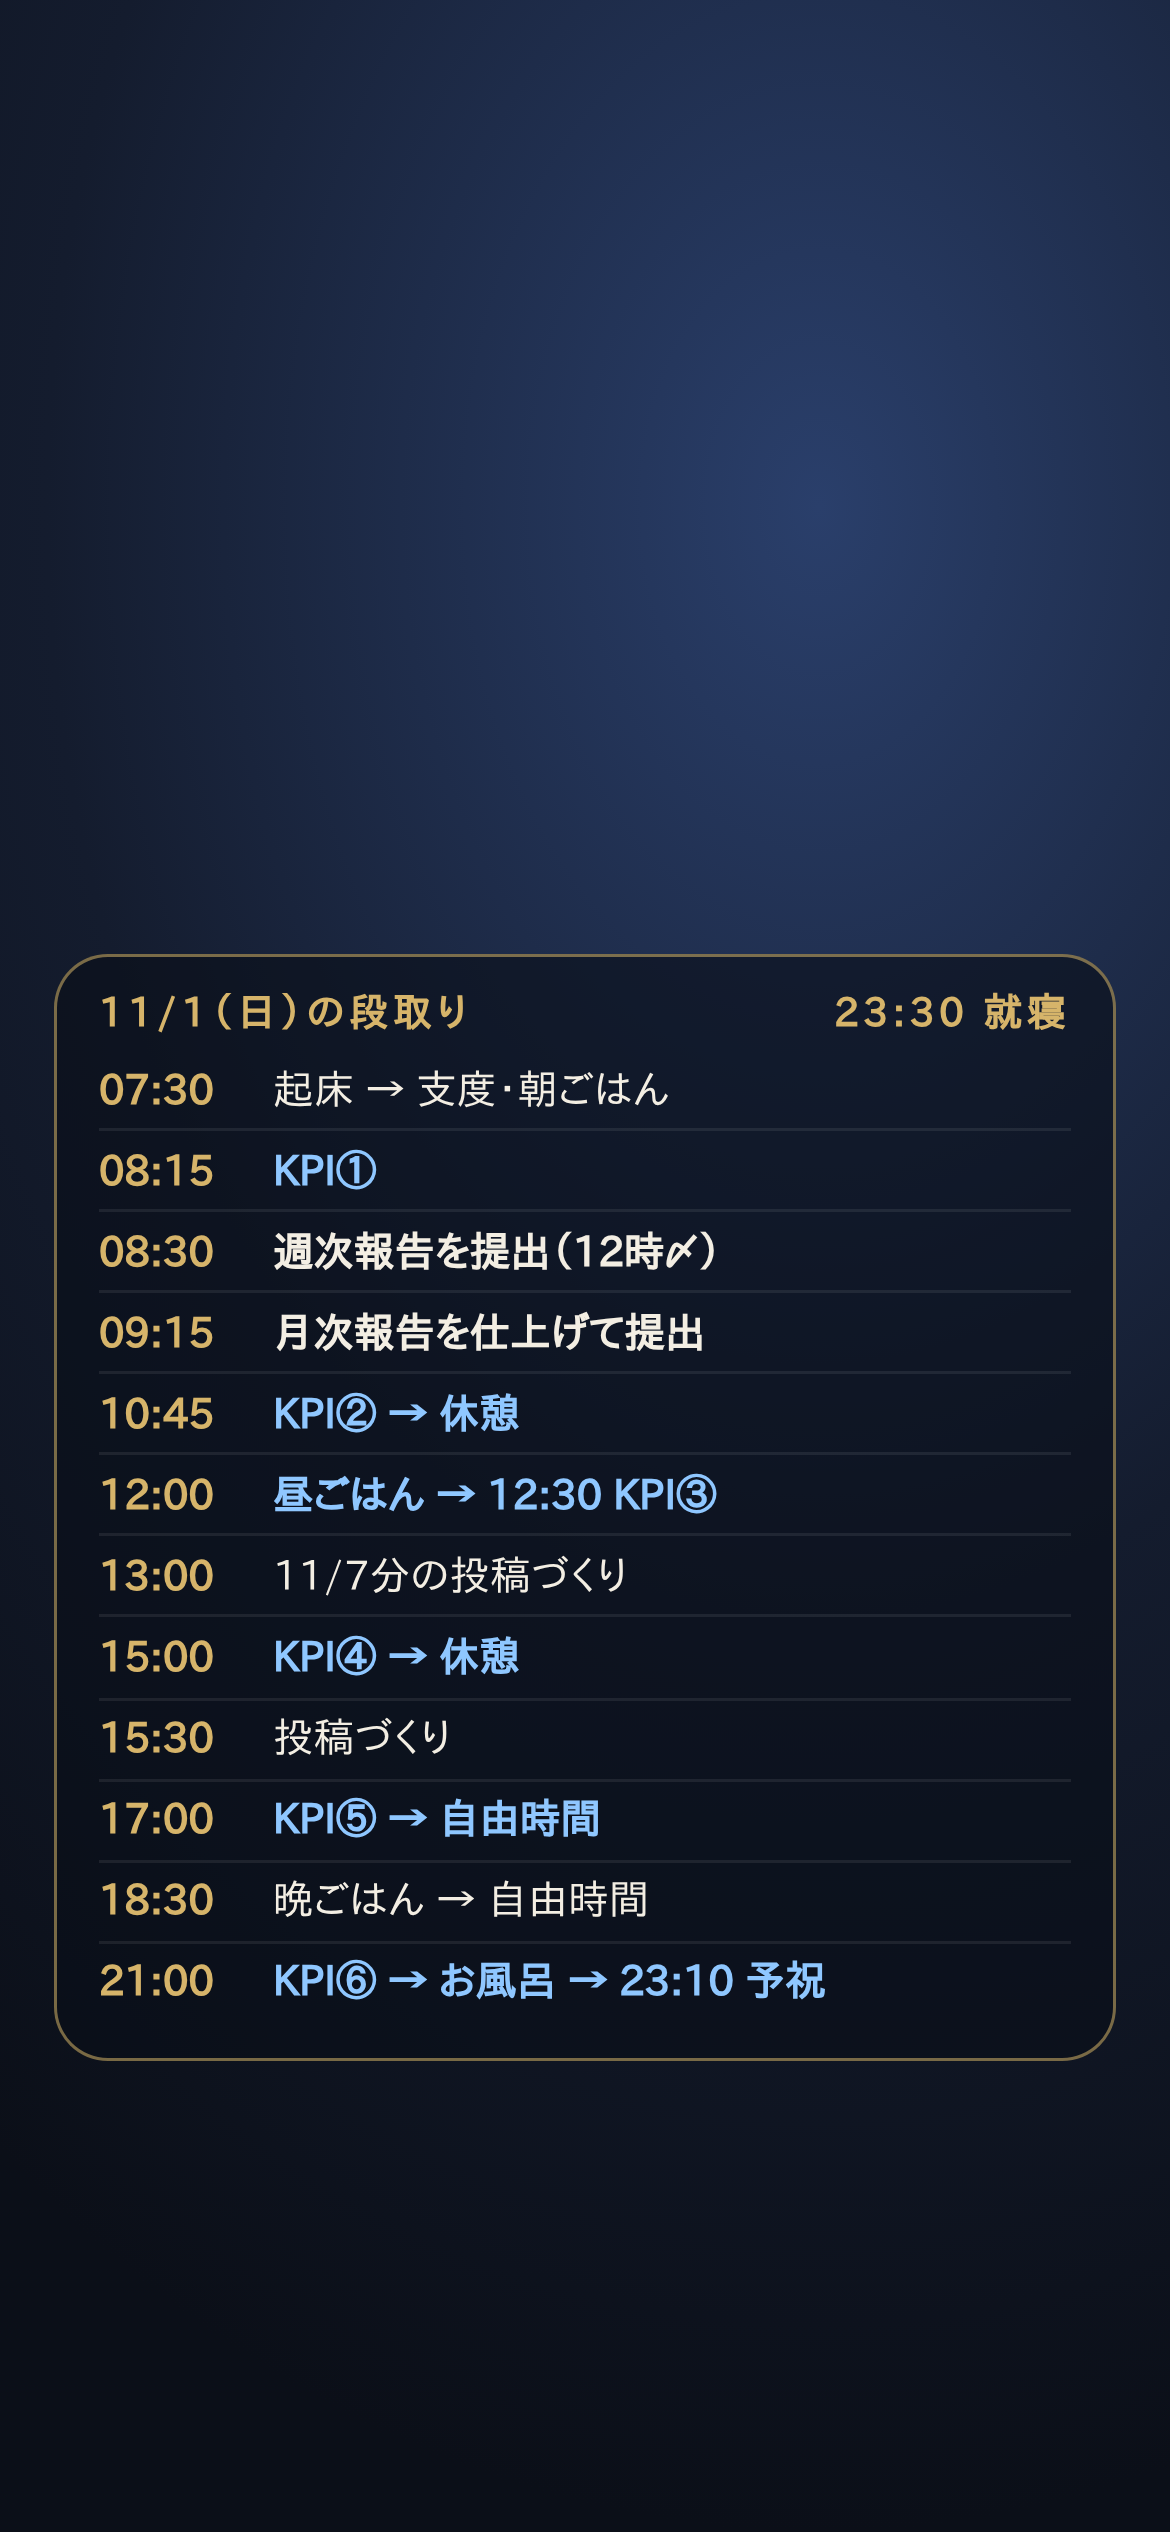
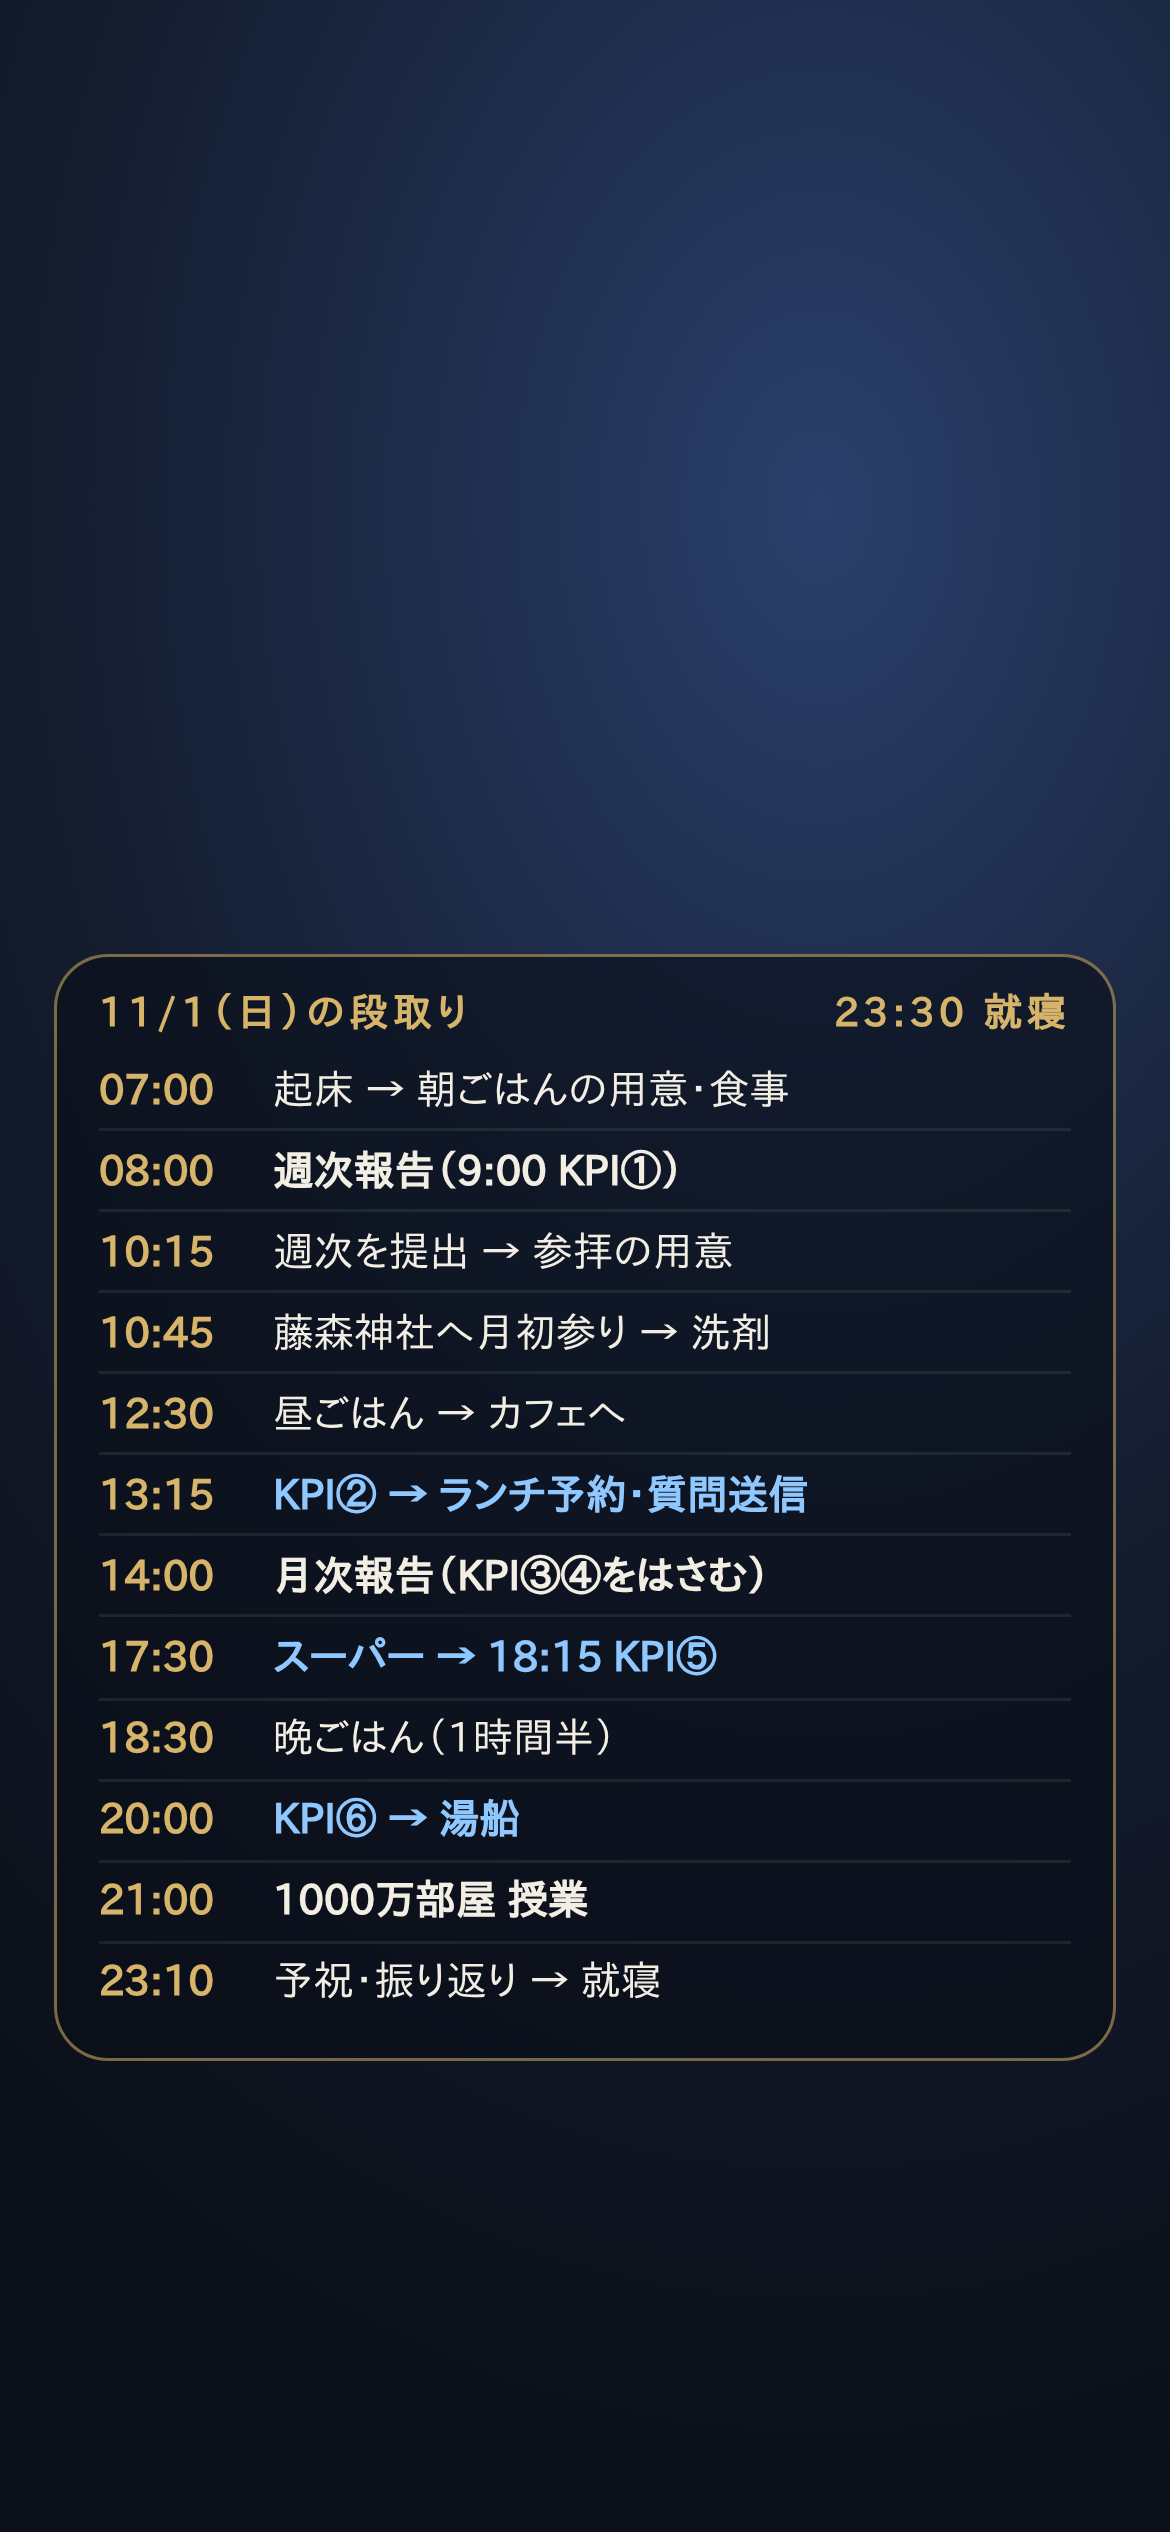
11/1 段取りを代表のタスクリストで組み直し（月初参り・週次・月次、掃除は11/3へ）
Claude-Session: https://claude.ai/code/session_01U8582CXgJcTRPR8mqEQHmZ

diff --git a/secretary/brief/index.html b/secretary/brief/index.html
@@ -66,21 +66,21 @@ ul{list-style:none;margin:0;padding:0;display:flex;flex-direction:column;gap:2px
 <script id="brief" type="application/json">{
   "date": "2026-11-01",
   "label": "11/1（日）休み",
-  "wake": "7:30",
-  "updated": "前夜22:00作成",
-  "lead": "⚠11/8 神社部10時と週次〆が重なる。今日は報告2つを提出",
+  "wake": "7:00",
+  "updated": "10/31 夜に更新",
+  "lead": "週次→月初参り→カフェで月次。掃除3hは11/3へ",
   "must": [
     {
       "id": "weekly",
-      "label": "週次報告を提出（12時〆）",
-      "note": "文章にスクショを貼る",
-      "when": "8:30"
+      "label": "週次報告（2h）を提出",
+      "note": "〆11:30。参拝の前に出す",
+      "when": "8:00"
     },
     {
       "id": "monthly",
-      "label": "月次報告（10月分）を提出",
-      "note": "明日は修正日",
-      "when": "9:15"
+      "label": "月次報告（3h）を提出",
+      "note": "カフェで。明日は修正日",
+      "when": "14:00"
     },
     {
       "id": "kpi",
@@ -91,54 +91,56 @@ ul{list-style:none;margin:0;padding:0;display:flex;flex-direction:column;gap:2px
   ],
   "timeline": [
     {
-      "s": "07:30",
-      "e": "08:30",
-      "label": "支度・朝ごはん→KPI①",
-      "task": ""
-    },
-    {
-      "s": "08:30",
-      "e": "10:45",
-      "label": "週次を提出→月次を提出",
-      "task": "",
+      "s": "07:00",
+      "e": "10:15",
+      "label": "朝ごはん→週次報告",
+      "task": "9:00 KPI①",
       "kind": "must"
     },
     {
-      "s": "10:45",
-      "e": "13:00",
-      "label": "KPI②→休憩→昼",
-      "task": "12:30 KPI③"
+      "s": "10:15",
+      "e": "12:30",
+      "label": "用意→藤森神社へ月初参り",
+      "task": "帰りに洗剤"
     },
     {
-      "s": "13:00",
-      "e": "17:00",
-      "label": "11/7分の投稿づくり",
-      "task": "15:00 KPI④・休憩"
+      "s": "12:30",
+      "e": "14:00",
+      "label": "昼→カフェ→KPI②",
+      "task": "ランチ予約・質問送信"
     },
     {
-      "s": "17:00",
+      "s": "14:00",
+      "e": "17:30",
+      "label": "月次報告",
+      "task": "KPI③④をはさむ",
+      "kind": "must"
+    },
+    {
+      "s": "17:30",
       "e": "21:00",
-      "label": "KPI⑤→自由→晩ごはん",
-      "task": ""
+      "label": "スーパー→KPI⑤→晩ごはん",
+      "task": "20:00 KPI⑥→湯船"
     },
     {
       "s": "21:00",
       "e": "23:30",
-      "label": "KPI⑥→お風呂→自由",
-      "task": "23:10 予祝→就寝"
+      "label": "1000万部屋 授業",
+      "task": "23:10 予祝→就寝",
+      "kind": "must"
     }
   ],
   "deadlines": [
     {
-      "d": "11/1（日）12:00",
-      "label": "週次報告を提出",
-      "prep": "朝8:30",
-      "days": 0
+      "d": "11/3（火・祝）",
+      "label": "玄関・洗面所・部屋の掃除",
+      "prep": "今日から移動（3h）",
+      "days": 2
     },
     {
       "d": "11/7（土）",
       "label": "投稿提出（9-13時勤務の日）",
-      "prep": "今日から作る",
+      "prep": "早めに作る",
       "days": 6
     },
     {

diff --git a/secretary/tasks.md b/secretary/tasks.md
@@ -89,6 +89,20 @@
 
 - 📌 10/26: 投稿（10/28分）が終わらず。10/27は20時帰宅で夜に作業時間なし → 20:00の堀さんMTGで「10/28（水）夜に提出」を相談（秘書の提案・代表の判断待ち）
 
+### 2026-10-31 代表から共有（11/1 にやること）
+| タスク | 時間 | いつやるか |
+|---|---|---|
+| 👤 月初参り（氏神様＝藤森神社と推定。用意30分＋参拝1時間30分） | 2時間 | 11/1 10:15〜12:30 |
+| 👤 洗剤を買う | 15分 | 11/1 参拝の帰り |
+| 👤 週次報告 | 2時間 | 11/1 8:00〜10:15（〆11:30） |
+| 👤 月次報告（10月分）※未着手 | 3時間 | 11/1 14:00〜17:30（カフェ） |
+| 👤 西日本神社部（11/8）のランチのお店を予約 | 10分 | 11/1 13:15〜 |
+| 👤 1000万部屋に質問を送る | 15分 | 11/1 13:15〜 |
+| 👤 スーパーで買い物 | 30分 | 11/1 17:30〜 |
+| 👤 1000万部屋の授業 | — | 11/1 21:00〜（時刻は代表に確認中） |
+| 👤 玄関・洗面所の掃除 | 1時間 | 11/1に入らず → **11/3（火・祝）** |
+| 👤 部屋の掃除 | 2時間 | 11/1に入らず → **11/3（火・祝）** |
+
 ### 2026-10-25 代表から共有（いま抱えているタスク）
 | タスク | 時間 | 期日 | いつやるか |
 |---|---|---|---|
